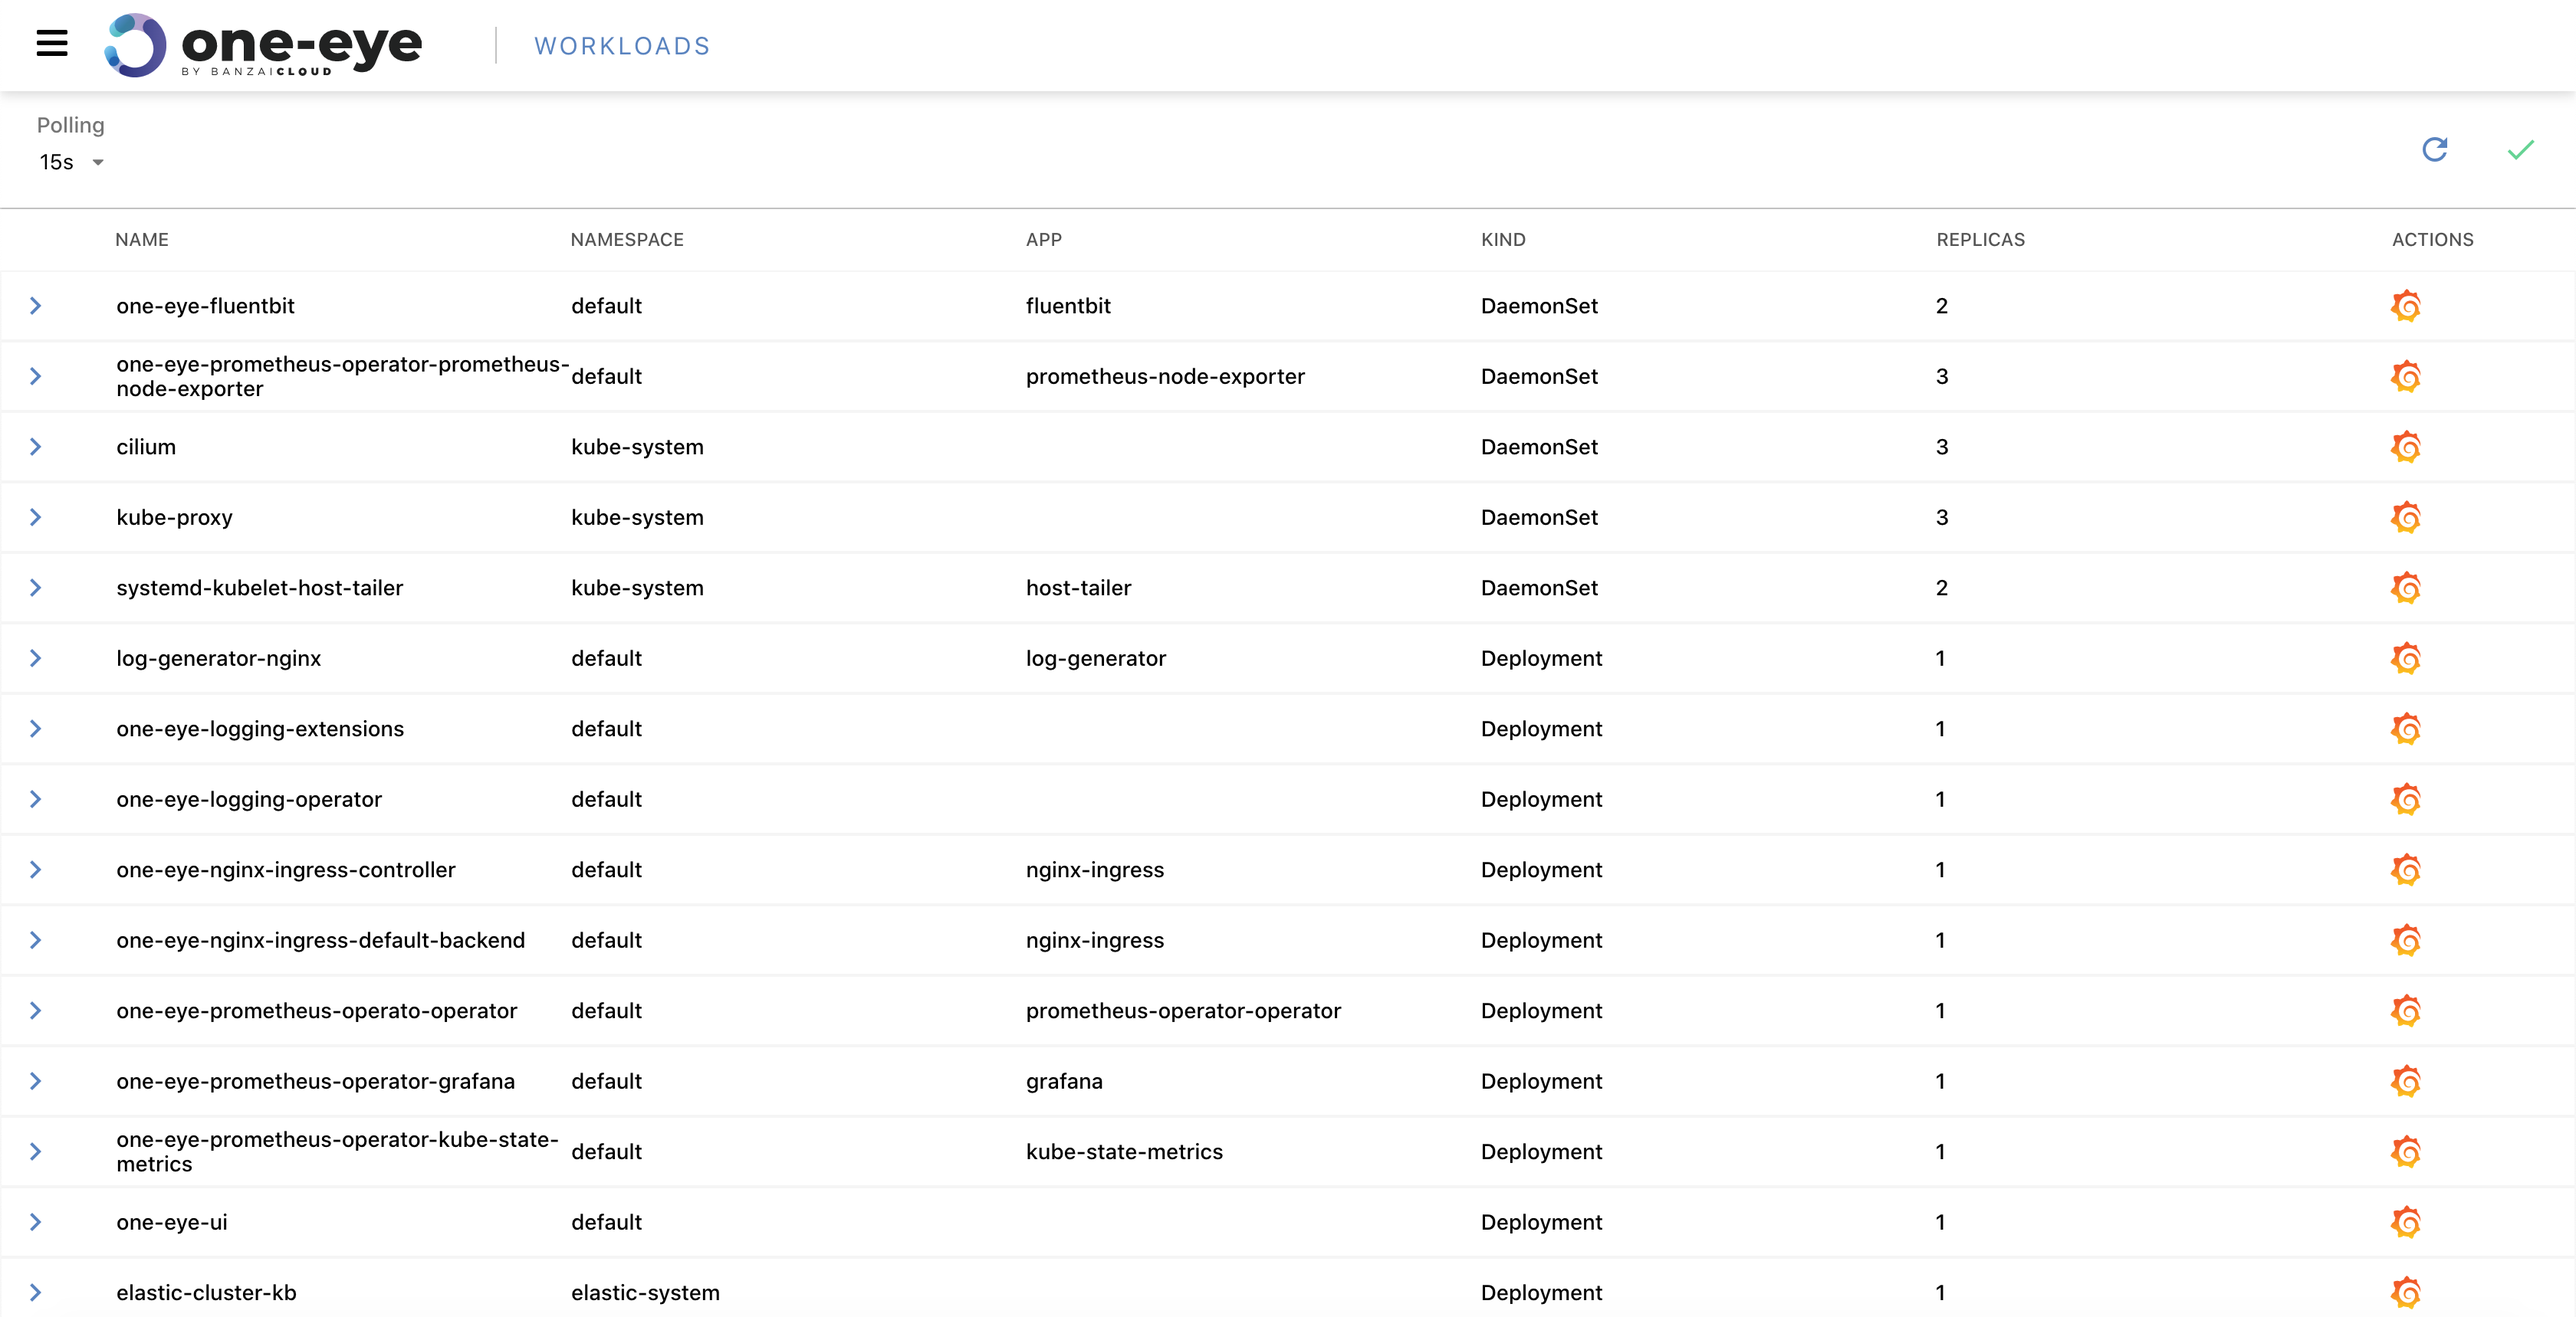
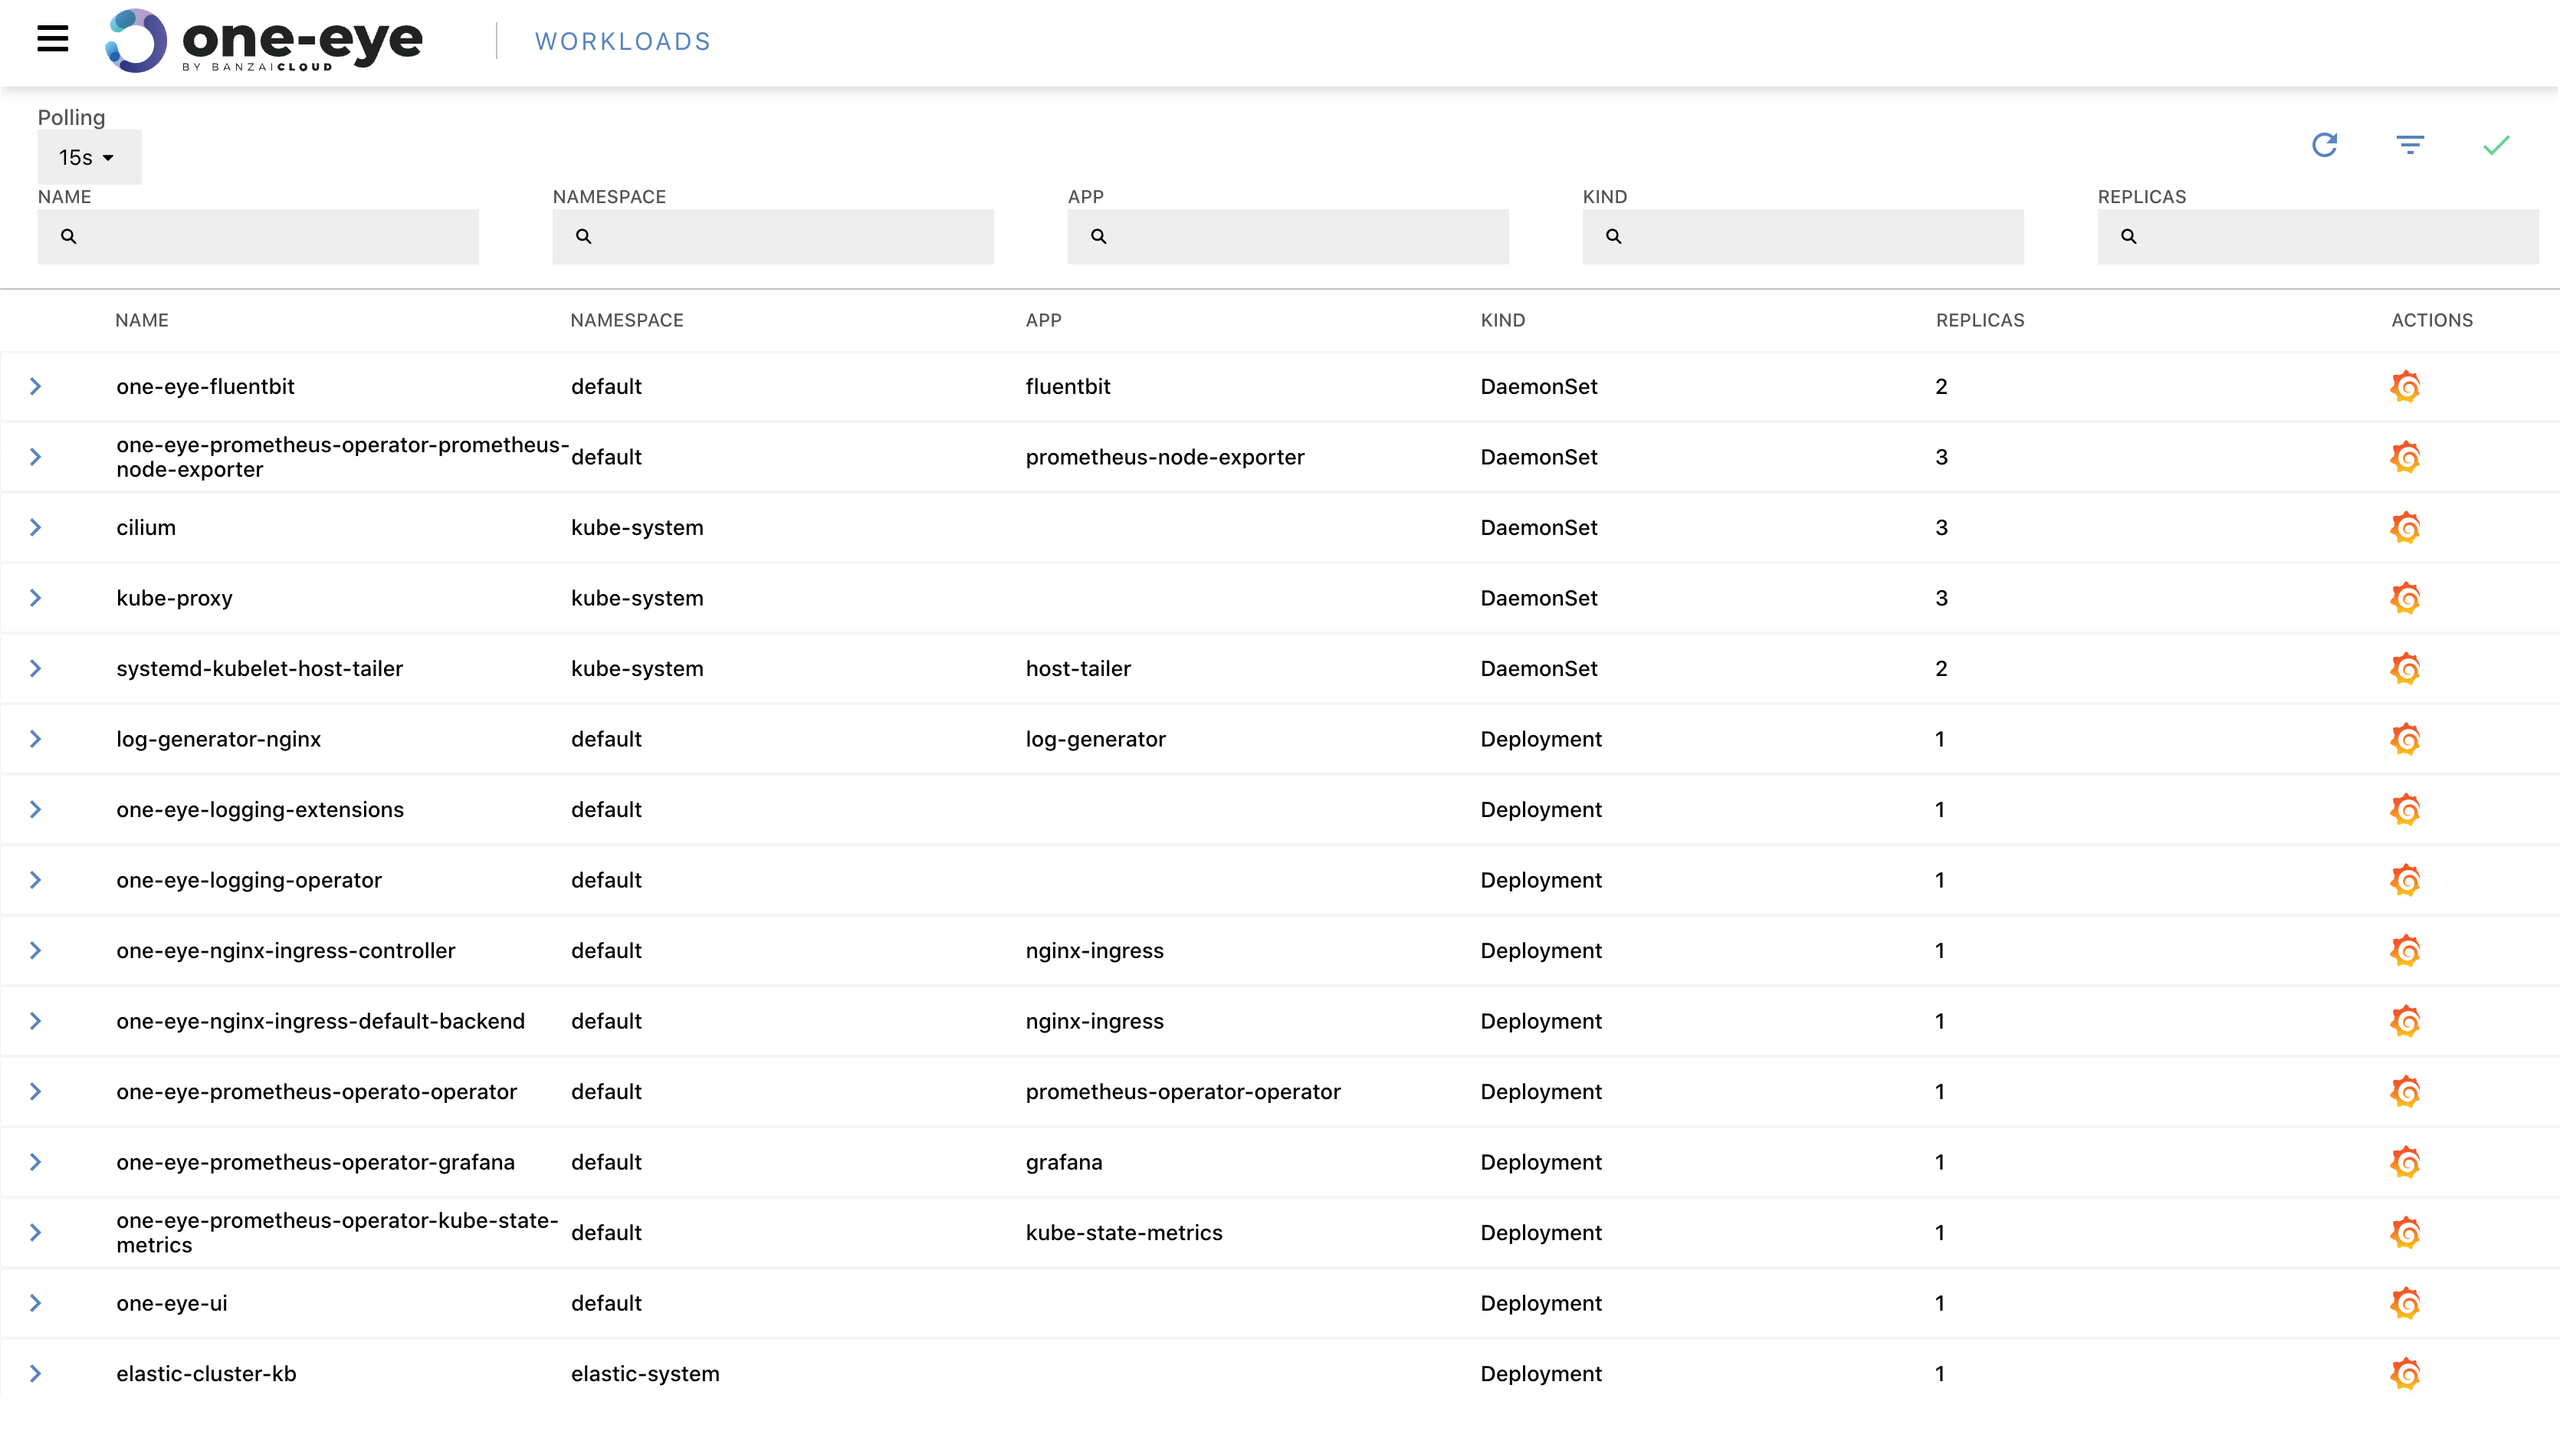
Documents the Workloads filter bar

diff --git a/docs/workloads/index.md b/docs/workloads/index.md
@@ -17,6 +17,8 @@ The **MENU > WORKLOADS** page contains information about the workloads your logg
 - **KIND**: The kind of the workload, for example, DaemonSet, Deployment, ReplicaSet, or StatefulSet.
 - **REPLICAS**: The number of replicas for the workload.
 
+> To quickly find a workload, or to filter the list to show only workloads that match a criteria, click **![Show filters](/docs/one-eye/headless/icon-filters.png)** to display the filter bar.
+
 Click on the name of a workload to display its details.
 
 From the details overview, you can drill down through the following levels to the underlying resources of the infrastructure: [Overview](#workload-overview) > Controller > [Pod](#pod) > [Node](#node)
